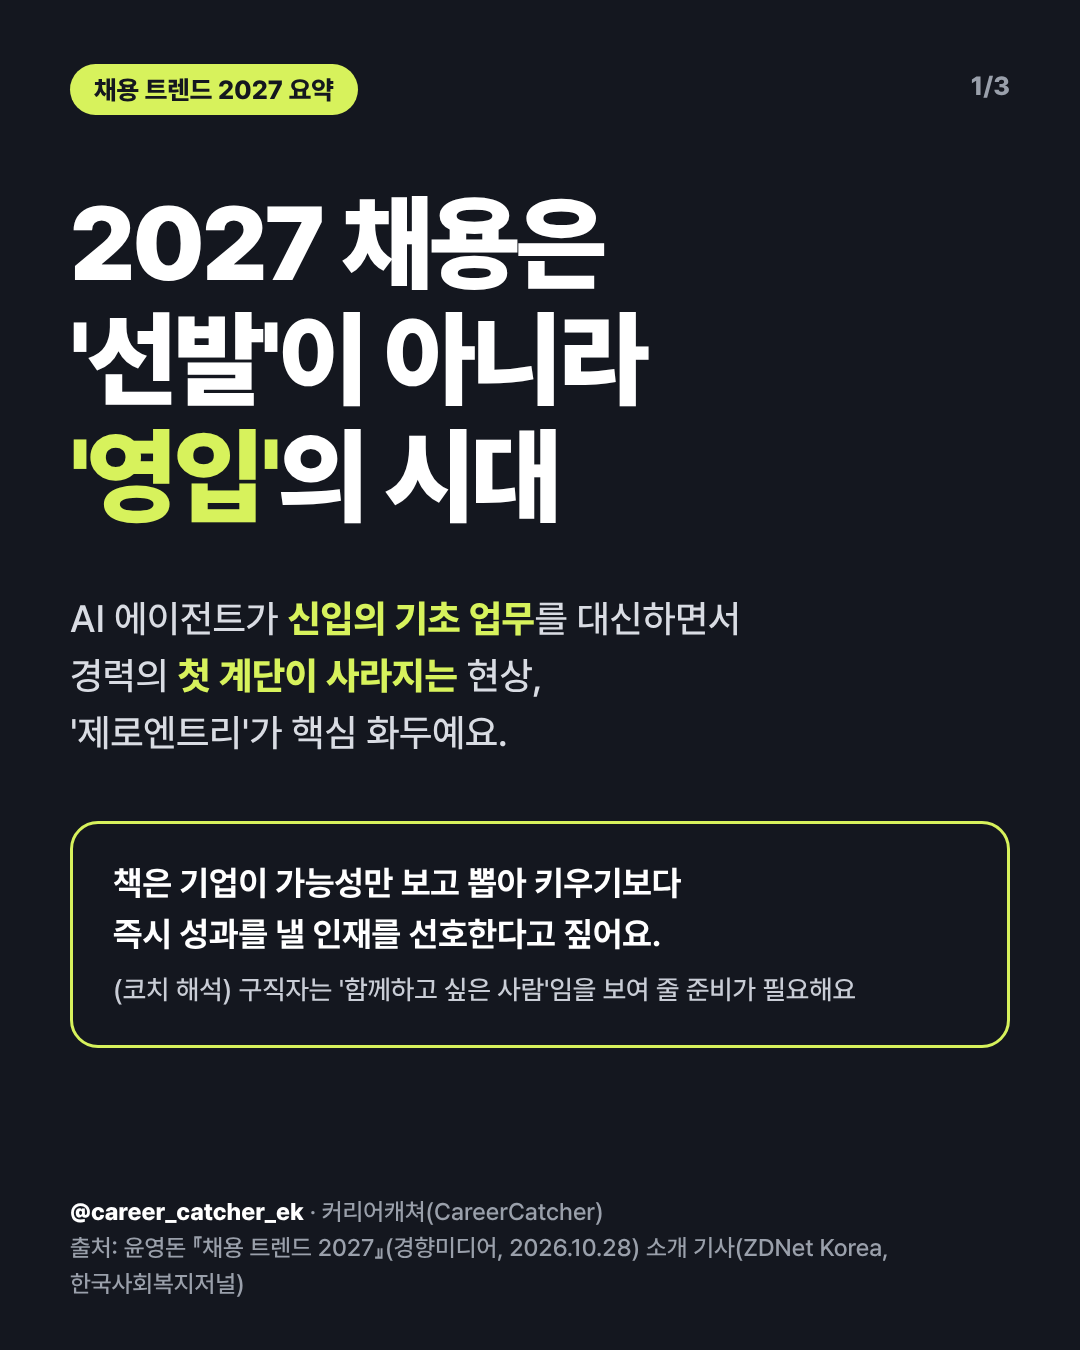
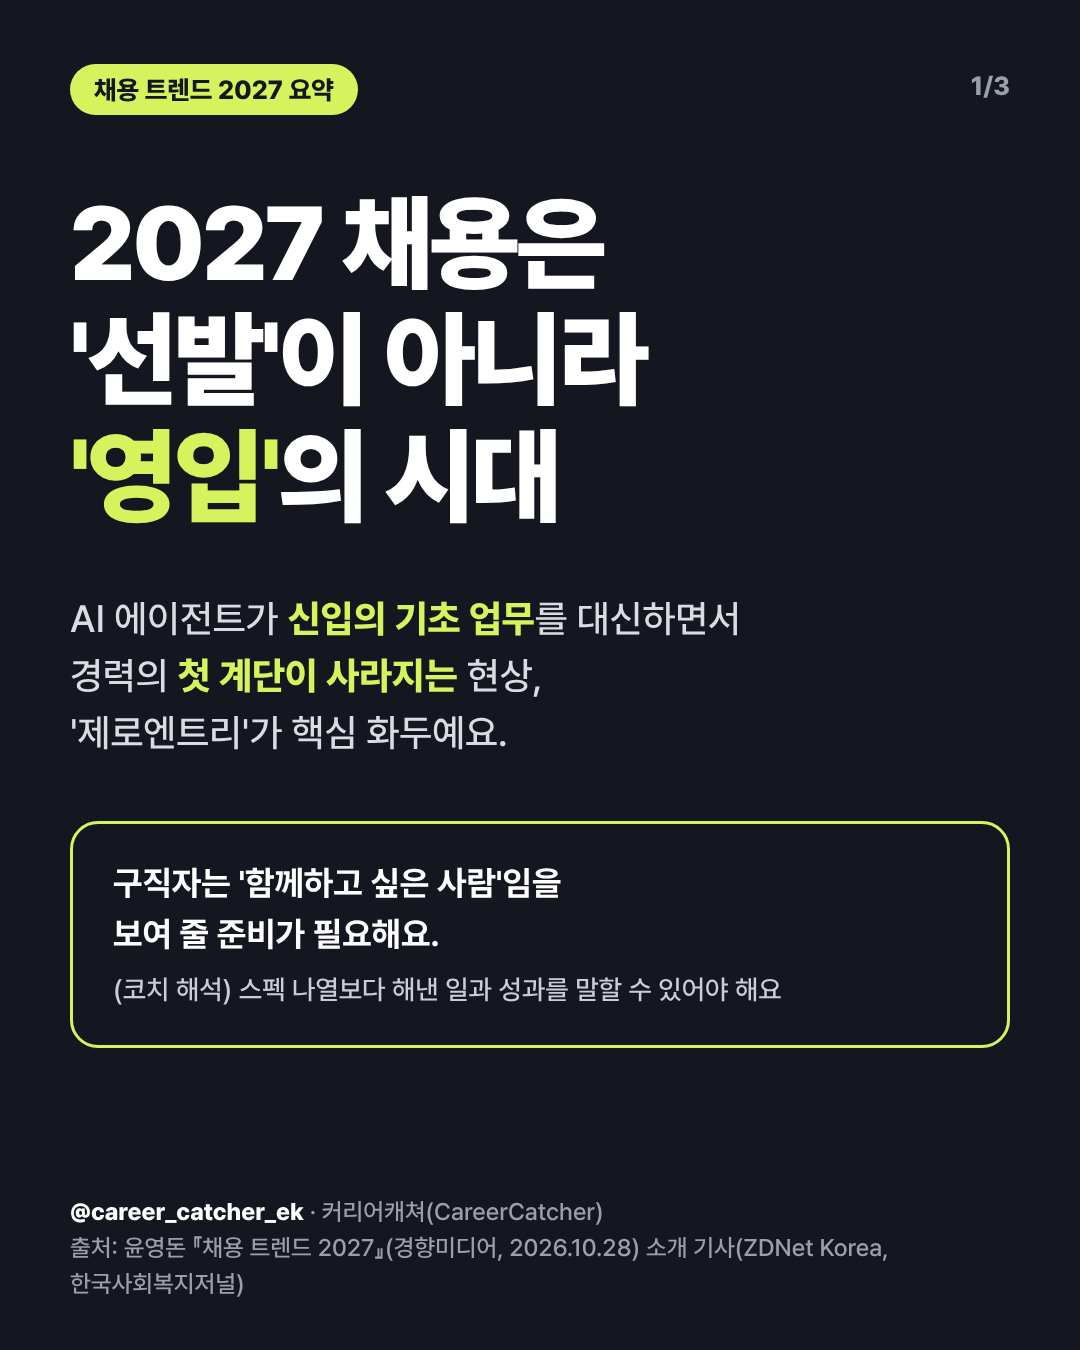
카드뉴스 1장: '책은' 문장 삭제
Claude-Session: https://claude.ai/code/session_01HCQhJp9fK9QrXzRY9SMg4y

Changed region(s): [[0.0917, 0.6222, 0.7944, 0.7467]]

diff --git a/office/20261119_채용트렌드2027_카드뉴스/cards.html b/office/20261119_채용트렌드2027_카드뉴스/cards.html
@@ -46,7 +46,7 @@ h2 mark{background:var(--lime);padding:0 8px;margin:0 -4px}
   <span class="lab">채용 트렌드 2027 요약</span><span class="pg">1/3</span>
   <h1>2027 채용은<br>'선발'이 아니라<br><em>'영입'</em>의 시대</h1>
   <p class="lead">AI 에이전트가 <b>신입의 기초 업무</b>를 대신하면서<br>경력의 <b>첫 계단이 사라지는</b> 현상,<br>'제로엔트리'가 핵심 화두예요.</p>
-  <div class="box">책은 기업이 가능성만 보고 뽑아 키우기보다<br>즉시 성과를 낼 인재를 선호한다고 짚어요.<small>(코치 해석) 구직자는 '함께하고 싶은 사람'임을 보여 줄 준비가 필요해요</small></div>
+  <div class="box">구직자는 '함께하고 싶은 사람'임을<br>보여 줄 준비가 필요해요.<small>(코치 해석) 스펙 나열보다 해낸 일과 성과를 말할 수 있어야 해요</small></div>
   <div class="foot"><b>@career_catcher_ek</b> · 커리어캐쳐(CareerCatcher)<br>출처: 윤영돈 『채용 트렌드 2027』(경향미디어, 2026.10.28) 소개 기사(ZDNet Korea, 한국사회복지저널)</div>
 </section>
 
